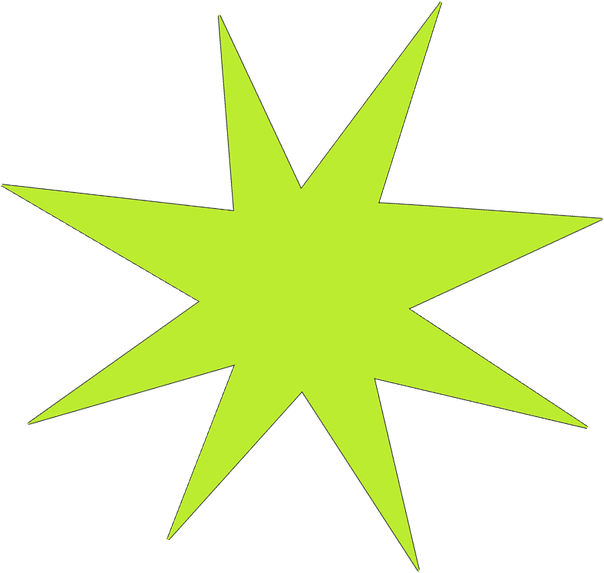
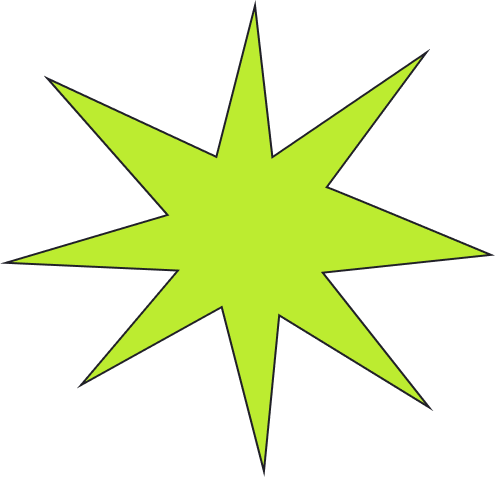
hw-4: mobile polish - exact Figma starburst, uppercase ticker, cards capped at 480px on large phones

diff --git a/style.css b/style.css
@@ -172,6 +172,7 @@ ul {
   font-weight: 700;
   line-height: 33px;
   white-space: nowrap;
+  text-transform: uppercase;
   color: #202027;
 }
 
@@ -568,9 +569,9 @@ ul {
 
   .welcome__deco--starburst-mobile {
     display: block;
-    width: 302px;
-    top: -104px;
-    right: -115px;
+    width: 247.5px;
+    top: -83.5px;
+    right: -88.5px;
   }
 
   .welcome__deco--star-1 {
@@ -630,11 +631,14 @@ ul {
   }
 
   .games__title {
+    max-width: 480px;
     margin-bottom: 48px;
     font-size: 40px;
   }
 
+  /* On large phones the cards stop growing at 480px and stay centered */
   .games__list {
+    max-width: 480px;
     gap: 24px;
   }
 
